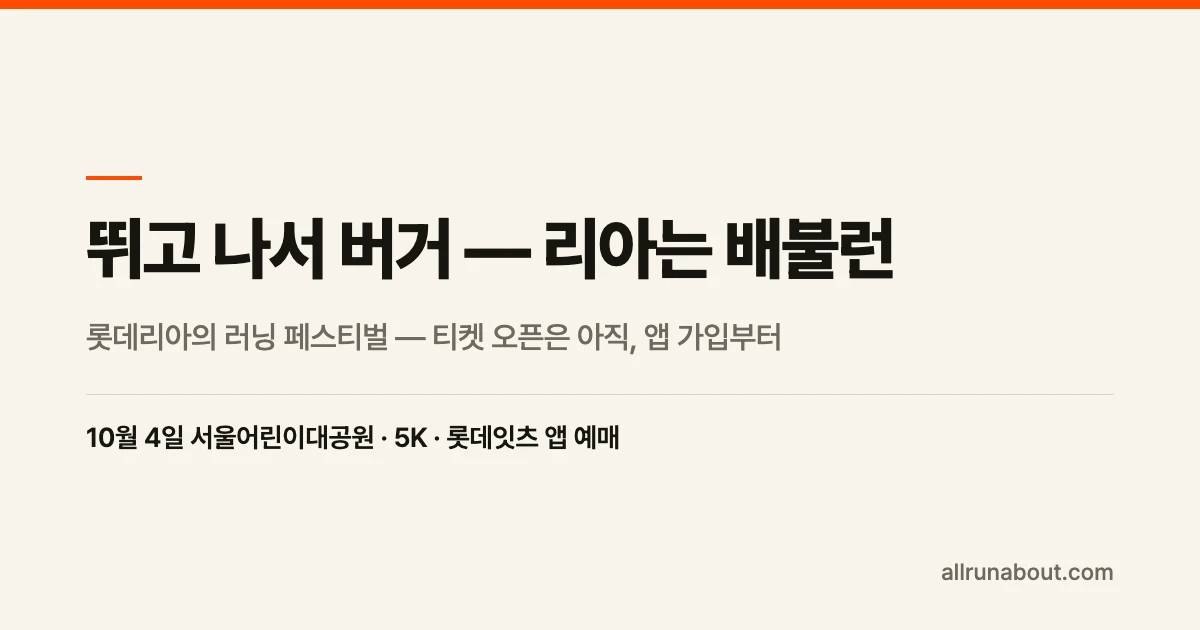
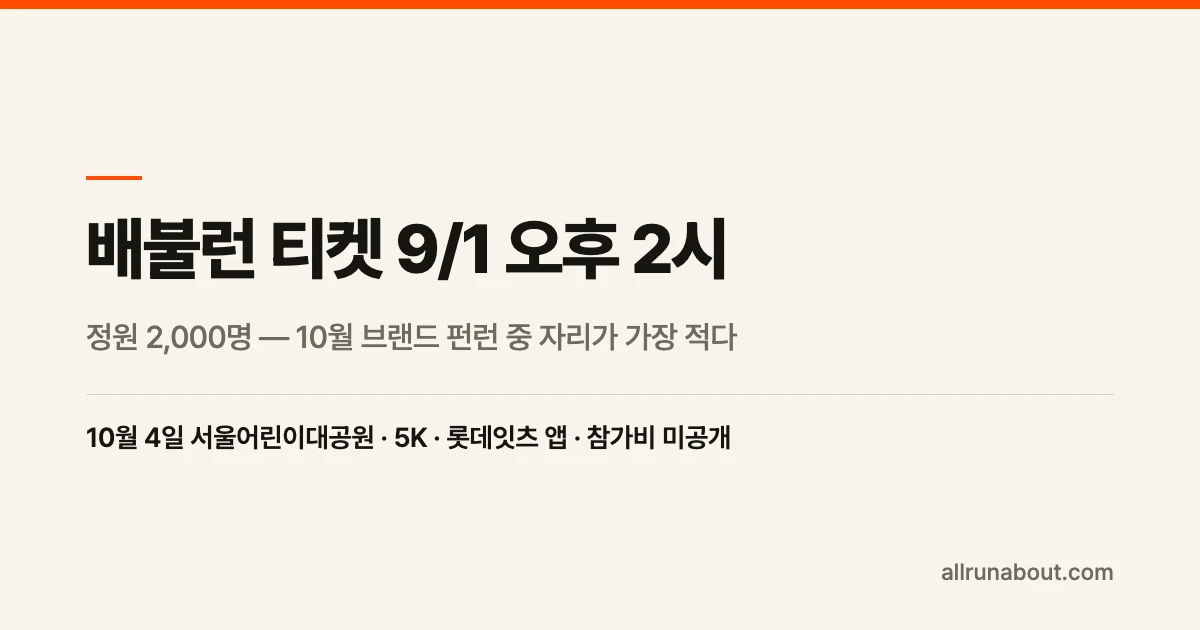
fix(blog): 리아는 배불런 티켓 오픈 확정 반영 — 9/1 14시, 정원 2,000명
@lotteria_kr 8/20 게시물로 8/12 발행 때 "추후 공개"로 남겨뒀던 항목이
확정됐다. 티켓 오픈 9월 1일(화) 오후 2시, 롯데잇츠 앱에서 참가권 구매,
정원 2,000명, 코스는 "햄버거 라인을 따라 달리는 5km 버거 트랙".

각도는 오픈 날짜가 아니라 정원이다. 2,000명은 같은 달 디즈니런 1.5만·
카카오 1만·쿠키런 7천에 견주면 한 자릿수 배로 작다. 예매 경로도 앱
하나뿐이라 9/1 14시 정시 경쟁으로 대비하는 게 안전하다.

다만 선착순/추첨은 공식 표기가 없어 단정하지 않았다 — "참가권을
구매하세요"라는 문구와 추첨 언급 부재에서 끌어낸 추정임을 본문·FAQ·
경고 callout 세 곳에 명시했다. 참가비는 여전히 미공개다.

정합 갱신:
- marathon DB: registrationStart 9/1, 정원 2,000, website 를 티켓 공지
  게시물로 교체. status 는 '접수예정' 유지(오픈 전)
- 10월 축제형 허브: 배불런이 "티켓 오픈 대기"였다 → 디즈니 8/31·배불런
  9/1 이 이틀 연속이라는 구성으로 제목·스트립·요약·표·섹션1 재작성
- 썸네일 2장 재생성

검증: validate 에러 0(경고 15→13, 카카오·쿠키런 website 백필 효과) ·
build 통과 · test 170개 통과 · slug 변경 없음

Changed region(s): [[0.0617, 0.3317, 0.7708, 0.4524], [0.0617, 0.5127, 0.6475, 0.573], [0.4625, 0.6635, 0.6167, 0.7238]]

diff --git a/src/lib/data/blog/posts/2026-08.ts b/src/lib/data/blog/posts/2026-08.ts
@@ -756,13 +756,13 @@ export const posts_2026_08: BlogPost[] = [
   {
     id: 'october-fun-run-races-2026-compare',
     slug: 'october-fun-run-races-2026-compare',
-    title: '10월 축제형 러닝 대회 7개 비교 — 어떤 걸 골라야 하나 | 지금 신청 가능한 건 쿠키런(~9/21), 다음 관문은 디즈니 8/31 오픈',
+    title: '10월 축제형 러닝 대회 7개 비교 — 어떤 걸 골라야 하나 | 디즈니 8/31·배불런 9/1, 관문이 이틀 연속',
     description:
-      '2026년 10월은 브랜드·캐릭터 러닝 대회가 한 달에 일곱 개 몰린 달입니다. 리아는 배불런(10/4)·NB 런유어웨이(10/4)·카카오프렌즈 런(10/10)·서울레이스(10/11)·디즈니런 인천(10/24)·용감한 쿠키RUN(10/25), 그리고 일정 미발표인 스타일런까지. 8월 20일 기준으로 판이 한 번 바뀌었습니다 — 카카오는 접수가 끝나 당첨자 발표 단계로 넘어갔고, 용감한 쿠키RUN이 8월 20일 오후 2시에 열려 9월 21일까지 신청을 받습니다. 다음 관문은 8월 31일 10시 디즈니런 선착순입니다. 날짜·참가비·종목·접수 상태를 한 표로 놓고, 지금 움직일 대회와 기다릴 대회를 갈랐습니다.',
+      '2026년 10월은 브랜드·캐릭터 러닝 대회가 한 달에 일곱 개 몰린 달입니다. 리아는 배불런(10/4)·NB 런유어웨이(10/4)·카카오프렌즈 런(10/10)·서울레이스(10/11)·디즈니런 인천(10/24)·용감한 쿠키RUN(10/25), 그리고 일정 미발표인 스타일런까지. 지금 신청창이 열려 있는 건 용감한 쿠키RUN 하나(~9/21 17시)이고, 다음 관문 둘이 이틀 연속으로 붙어 있습니다 — 디즈니런 8월 31일 10시 선착순 1.5만 명, 리아는 배불런 9월 1일 14시 롯데잇츠 앱 정원 2,000명. 카카오프렌즈 런은 접수를 닫고 당첨자 발표 단계로 넘어갔습니다. 날짜·참가비·종목·접수 상태를 한 표로 놓고, 지금 움직일 대회와 기다릴 대회를 갈랐습니다.',
     thumbnail: '/images/blog/october-fun-run-races-2026-compare.webp',
     author: '산초 에디터',
     publishedAt: '2026-08-12',
-    updatedAt: '2026-08-20',
+    updatedAt: '2026-08-21',
     category: 'news' as const,
     readingTime: 8,
     tags: ['10월 마라톤', '가을 러닝 대회', '펀런', '브랜드 러닝', '카카오프렌즈 런', '디즈니런', '리아는 배불런', '서울레이스', '러닝 대회 비교', '러닝 대회 접수'],
@@ -770,7 +770,7 @@ export const posts_2026_08: BlogPost[] = [
       {
         question: '지금 당장 신청할 수 있는 대회는 뭔가요?',
         answer:
-          '8월 20일 기준으로는 용감한 쿠키RUN 하나입니다. 8월 20일(목) 오후 2시에 접수가 열려 9월 21일(월) 17시까지 받으며, 같은 시각까지는 100% 환불도 가능해 일정이 불확실해도 일단 잡아둘 여지가 있습니다. 카카오프렌즈 런은 8월 17일에 접수가 끝나 당첨자 발표 단계로 넘어갔고(1차 8/20, 잔여 티켓 추가 발표 ~8/30), 디즈니런 인천은 8월 31일(월) 오전 10시에 1.5만 명 선착순으로 본대회 티켓이 열립니다. 나머지는 대기(배불런·스타일런) 또는 별도 경로(런유어웨이 오프라인 패키지) 상태입니다.',
+          '지금 열려 있는 건 용감한 쿠키RUN 하나입니다. 8월 20일(목) 오후 2시에 접수가 열려 9월 21일(월) 17시까지 받으며, 같은 시각까지는 100% 환불도 가능해 일정이 불확실해도 일단 잡아둘 여지가 있습니다. 이어질 관문은 둘입니다 — 디즈니런 인천이 8월 31일(월) 오전 10시에 1.5만 명 선착순으로, 리아는 배불런이 9월 1일(화) 오후 2시에 롯데잇츠 앱에서 열립니다. 배불런은 정원이 2,000명뿐이라 이 중 자리가 가장 적습니다. 카카오프렌즈 런은 8월 17일에 접수가 끝나 당첨자 발표 단계로 넘어갔고(1차 8/20, 잔여 티켓 추가 발표 ~8/30), 스타일런만 여전히 일정 미발표입니다.',
       },
       {
         question: '10월 4일에 두 대회가 겹치는데 어떻게 고르나요?',
@@ -794,13 +794,13 @@ export const posts_2026_08: BlogPost[] = [
       },
     ],
     content: `
-<div class="deadline-strip">⏰ <strong>8/20 기준으로 판이 바뀌었습니다</strong> — 카카오프렌즈 런은 접수가 끝나 <strong>당첨자 발표</strong> 단계(1차 8/20, 잔여 티켓 추가 발표 ~8/30)로 넘어갔고, 용감한 쿠키RUN이 <strong>8월 20일(목) 오후 2시에 열려 9월 21일(월) 17시까지</strong> 신청을 받습니다. 다음 관문은 디즈니런 인천 <strong>8월 31일(월) 10시 선착순</strong>입니다.</div>
+<div class="deadline-strip">⏰ <strong>다음 관문이 이틀 연속입니다</strong> — 디즈니런 인천 <strong>8월 31일(월) 10시</strong>(선착순 1.5만), 리아는 배불런 <strong>9월 1일(화) 14시</strong>(롯데잇츠 앱, <strong>정원 2,000명</strong>). 지금 열려 있는 건 용감한 쿠키RUN 하나(~9/21 17시)이고, 카카오프렌즈 런은 접수를 닫고 발표 단계로 넘어갔습니다.</div>
 
 <div class="tldr">
   <span class="tldr-label">3줄 요약</span>
   <ul>
     <li><strong>2026년 10월은 브랜드·캐릭터 러닝 대회가 일곱 개 몰린 달입니다</strong> — 배불런·런유어웨이(10/4), 카카오프렌즈 런(10/10), 서울레이스(10/11), 디즈니런(10/24), 용감한 쿠키RUN(10/25), 그리고 일정 미발표 스타일런</li>
-    <li><strong>8/20 현재 신청창이 열려 있는 건 쿠키런 하나</strong>(8/20 14시~9/21 17시)이고, 카카오는 접수를 닫고 발표 단계로, 디즈니는 8/31 10시 선착순 오픈을 남겨두고 있습니다. 배불런·스타일런은 티켓 오픈 대기, 런유어웨이는 래플이 끝나 매장 패키지만 남았습니다</li>
+    <li><strong>지금 신청창이 열려 있는 건 쿠키런 하나</strong>(8/20 14시~9/21 17시)이고, 이어서 <strong>디즈니 8/31 10시</strong>·<strong>배불런 9/1 14시</strong>가 이틀 간격으로 열립니다. 카카오는 접수를 닫고 발표 단계로, 스타일런만 일정 미발표, 런유어웨이는 래플이 끝나 매장 패키지만 남았습니다</li>
     <li><strong>참가비 7~8만원이 표준가가 됐고</strong>(카카오·디즈니 10K·런유어웨이 8만, 쿠키런 7만), 일곱 중 기록 지향은 서울레이스 하나뿐인데 <strong>그마저 5월에 접수가 끝났습니다</strong> — 즉 10월에 지금 신청 가능한 기록 대회는 없고, 남은 건 전부 축제형입니다</li>
   </ul>
 </div>
@@ -825,7 +825,7 @@ export const posts_2026_08: BlogPost[] = [
       <td>10/4(일)</td>
       <td>서울어린이대공원<br>5K</td>
       <td>미공개</td>
-      <td>티켓 오픈 대기<br><small>롯데잇츠 앱 예매</small></td>
+      <td><strong>9/1(화) 14시 오픈</strong><br><small>롯데잇츠 앱 · 정원 2,000명</small></td>
     </tr>
     <tr>
       <td><strong><a href="/blog/nb-run-your-way-seoul-10k-2026">NB 런유어웨이</a></strong><br><small>뉴발란스</small></td>
@@ -872,17 +872,18 @@ export const posts_2026_08: BlogPost[] = [
   </tbody>
 </table>
 
-<h2>1. 지금 움직일 것 — 쿠키런은 열렸고(~9/21), 디즈니는 8/31, 카카오는 끝났다</h2>
+<h2>1. 지금 움직일 것 — 쿠키런 열림(~9/21), 디즈니 8/31, 배불런 9/1</h2>
 
 <p><em>(8/20 갱신)</em> 이번 달 셋 중 <strong>하나는 문이 닫혔고 하나는 열렸습니다.</strong></p>
 
 <ul>
   <li><strong><a href="/blog/brave-cookie-run-seoul-2026">용감한 쿠키RUN — 접수 개시(8/20 14시), 마감 9월 21일(월) 17시</a></strong>. 지금 신청창이 열려 있는 유일한 대회입니다. 접수 창이 한 달로 길고 <strong>같은 시각까지 100% 환불</strong>이 가능해, 10월 25일 일정이 확실하지 않아도 일단 확보해두는 선택이 성립합니다. 쿠키런의 첫 오프라인 대회이고 10K 단일·7만원입니다</li>
   <li><strong>디즈니런 인천 — 8월 31일(월) 오전 10시 오픈</strong>. 이쪽은 <strong>선착순 1.5만 명</strong>이라 진짜 광클입니다. 작년 여의도에서 1.5만 명을 모은 대회라 경쟁이 예상되니, 결제 수단과 동반자 정보를 미리 준비해두세요</li>
+  <li><strong><a href="/blog/lotteria-baebulrun-2026">리아는 배불런 — 9월 1일(화) 오후 2시 오픈</a></strong>. 디즈니 다음 날입니다. 예매처가 <strong>롯데잇츠 앱 하나</strong>이고 정원이 <strong>2,000명</strong>뿐이라 이 달 라인업 중 자리가 가장 적습니다. 선착순인지 추첨인지는 공식 표기가 없지만 "참가권을 구매하세요"라는 안내라, 앱 가입·본인인증·결제 수단 등록까지 8월 안에 끝내두는 편이 안전합니다. 참가비는 여전히 미공개</li>
   <li><strong><a href="/blog/kakao-friends-run-2026">카카오프렌즈 런 — 접수 종료, 발표 단계</a></strong>. 8월 17일에 접수가 닫혔고 <strong>1차 당첨자 발표가 8월 20일(목)</strong>입니다. 안내는 카카오톡 채널 개별 통보이고, 잔여 티켓이 생기면 <strong>8월 30일(일)까지 추가 발표</strong>가 있습니다. 최종적으로 안 됐다면 버추얼 런이라는 우회로가 남습니다</li>
 </ul>
 
-<p>세 대회의 접수 방식이 제각각이라는 점이 이번 달의 함정이었습니다 — 카카오는 "기간 내 응모"만 하면 됐고, 디즈니는 "정시 클릭"이 전부이며, 쿠키런은 방식이 공개되지 않았지만 창이 한 달이라 결과적으로 여유가 있습니다.
+<p>접수 방식이 대회마다 제각각이라는 점이 이번 시즌의 함정입니다 — 카카오는 "기간 내 응모"만 하면 됐고, 디즈니와 배불런은 "정시 클릭"이 전부이며, 쿠키런은 방식이 공개되지 않았지만 창이 한 달이라 결과적으로 여유가 있습니다. <strong>8월 31일과 9월 1일이 붙어 있다는 것도 변수</strong>입니다 — 둘 다 노린다면 이틀 연속 정시 대기를 해야 합니다.
 
 <h2>2. 10월 4일 겹침 — 성격이 반대라 오히려 쉽다</h2>
 
@@ -947,7 +948,7 @@ export const posts_2026_08: BlogPost[] = [
   <span class="callout-icon">⚠</span>
   <div class="callout-body">
     <p class="callout-title">확정되지 않은 항목</p>
-    <p>리아는 배불런의 티켓 오픈일·참가비, 스타일런의 2026년 일정 전체는 2026년 8월 12일 기준 미공개입니다. 카카오프렌즈 런도 접수는 열렸지만 환불 규정·코스 상세·기록 계측 여부 등 세부 요강은 아직 공개 자료에서 확인되지 않았습니다. 각 대회 공식 채널에서 최종 확인하시고, 확정되는 대로 이 글을 갱신하겠습니다.</p>
+    <p>리아는 배불런은 8월 20일 공지로 티켓 오픈(9/1 14시)과 정원(2,000명)이 확정됐지만 <strong>참가비는 여전히 미공개</strong>이고, 선착순/추첨 여부도 공식 표기가 없습니다. 스타일런의 2026년 일정 전체도 8월 21일 기준 미발표입니다(제3자 사이트의 "10/18"은 공식 근거가 확인되지 않습니다). 용감한 쿠키RUN 역시 선발 방식이 명시돼 있지 않습니다. 각 대회 공식 채널에서 최종 확인하시고, 확정되는 대로 이 글을 갱신하겠습니다.</p>
   </div>
 </div>
 
@@ -1068,14 +1069,15 @@ export const posts_2026_08: BlogPost[] = [
   {
     id: 'lotteria-baebulrun-2026',
     slug: 'lotteria-baebulrun-2026',
-    title: '뛰고 나서 버거 — 롯데리아 "2026 리아는 배불런" 공개 | 10월 4일 서울어린이대공원 5K, 티켓은 롯데잇츠 앱',
+    title: '리아는 배불런 티켓 9월 1일 오후 2시 오픈 — 정원 2,000명, 롯데잇츠 앱 전용 | 10월 4일 어린이대공원 5K',
     description:
-      '롯데리아가 러닝 페스티벌 "2026 리아는 배불런"을 공식 인스타그램으로 공개했습니다. 10월 4일(일) 서울어린이대공원에서 5km를 달리는 축제형 펀런으로, 슬로건은 "땀 흘린 만큼, 배부를 자격 있다". 티켓 오픈 일정·참가비·프로그램은 추후 공개이고 예매는 롯데잇츠 앱에서 진행됩니다. 8월 말 리아 불고기·리아 새우 구매 시 예매 혜택 예고까지 — 지금 확정된 것과 아닌 것, 같은 날 열리는 뉴발란스 런유어웨이와의 선택 기준을 정리했습니다.',
+      '롯데리아 "2026 리아는 배불런"의 티켓 오픈 일정이 나왔습니다 — 9월 1일(화) 오후 2시, 롯데잇츠 앱에서 참가권을 구매하는 방식입니다. 이번 공지로 함께 확인된 정원은 2,000명으로, 같은 달 카카오프렌즈 런(1만)·디즈니런(1.5만)·용감한 쿠키RUN(7천)과 견주면 자리가 눈에 띄게 적습니다. 코스는 "햄버거 라인을 따라 달리는 5km 버거 트랙", 행사는 10월 4일(일) 서울어린이대공원. 참가비는 아직 미공개입니다. 오픈 전에 해둘 것과 같은 날 뉴발란스 런유어웨이와의 선택 기준을 정리했습니다.',
     thumbnail: '/images/blog/lotteria-baebulrun-2026.webp',
     author: '산초 에디터',
     publishedAt: '2026-08-12',
+    updatedAt: '2026-08-21',
     category: 'news' as const,
-    readingTime: 6,
+    readingTime: 7,
     tags: ['리아는 배불런', '롯데리아 런', '롯데리아 러닝', '서울어린이대공원', '펀런', '브랜드 러닝', '10월 마라톤', '5K 대회', '러닝 대회 접수'],
     event: {
       name: '2026 리아는 배불런',
@@ -1096,12 +1098,22 @@ export const posts_2026_08: BlogPost[] = [
       {
         question: '접수는 언제, 어디서 하나요?',
         answer:
-          '티켓 오픈 일정은 아직 공개되지 않았습니다(8월 12일 기준). 확정된 것은 예매처가 롯데잇츠 앱이라는 점이고, 공식 발표에서 원활한 예매를 위해 미리 회원가입을 해두라고 권장했습니다. 또 8월 말 롯데잇츠에서 리아 불고기·리아 새우 구매 시 티켓 예매 혜택이 제공될 예정이라고 예고돼 있습니다.',
+          '2026년 9월 1일(화) 오후 2시에 롯데잇츠 앱에서 열립니다(8월 20일 공식 공지). 앱에서 "리아는 배불런" 참가권을 구매하는 방식이고, 다른 예매 경로는 안내되지 않았습니다. 오픈 시각에 가입·본인인증·결제 수단 등록을 하면 늦으니 8월 안에 끝내두세요.',
+      },
+      {
+        question: '선착순인가요, 추첨인가요?',
+        answer:
+          '공식적으로 명시되지 않았습니다. 다만 안내 문구가 응모가 아니라 "참가권을 구매하세요"이고 추첨에 대한 언급이 전혀 없어, 정시 구매 경쟁으로 대비하는 편이 안전합니다. 정원이 2,000명으로 같은 달 다른 브랜드 펀런(카카오 1만·디즈니 1.5만·쿠키런 7천)보다 훨씬 적다는 점도 감안해야 합니다.',
+      },
+      {
+        question: '정원 2,000명이면 경쟁이 심한가요?',
+        answer:
+          '올가을 브랜드 펀런 중 가장 작은 규모입니다. 디즈니런 인천이 1.5만 명, 카카오프렌즈 런이 1만 명, 용감한 쿠키RUN이 7천 명인데 배불런은 2,000명입니다. 다만 배불런은 참가비가 아직 공개되지 않아 수요를 가늠하기 어렵고, 5K 단일 종목이라 대상층도 다릅니다. "무조건 몇 분 만에 매진"이라고 예측할 근거는 없지만, 여유 있게 접근할 규모도 아닙니다.',
       },
       {
         question: '참가비와 기념품은요?',
         answer:
-          '아직 공개되지 않았습니다. 참가비·기념품·프로그램 구성·정원 모두 "추후 공개" 상태입니다. 브랜드 펀런 관례(카카오프렌즈 런 8만원 등)를 보면 굿즈·먹거리 포함 패키지 형태가 유력하지만, 이는 추정일 뿐이니 공식 공지를 기다려야 합니다. 공개되면 이 글을 갱신하겠습니다.',
+          '참가비는 8월 21일 기준 여전히 미공개입니다. 기념품·프로그램 구성·기록 측정 여부도 마찬가지입니다. 브랜드 펀런 관례(카카오프렌즈 런 8만원, 용감한 쿠키RUN 7만원, 디즈니런 10K 8만원)를 보면 7~8만원대에 굿즈·먹거리를 포함한 패키지 형태가 유력하지만, 이는 관례에서 끌어온 추정일 뿐 발표된 값이 아닙니다. 공개되면 이 글을 갱신하겠습니다.',
       },
       {
         question: '같은 날 다른 대회와 겹치지 않나요?',
@@ -1110,12 +1122,14 @@ export const posts_2026_08: BlogPost[] = [
       },
     ],
     content: `
+<div class="deadline-strip">🍔 <strong>티켓 오픈 — 9월 1일(화) 오후 2시, 롯데잇츠 앱</strong>. 정원이 <strong>2,000명</strong>이라 10월 브랜드 펀런 중 자리가 가장 적습니다. 앱 회원가입과 결제 수단 등록을 <strong>8월 안에</strong> 끝내두세요.</div>
+
 <div class="tldr">
   <span class="tldr-label">3줄 요약</span>
   <ul>
-    <li><strong>롯데리아가 러닝 페스티벌을 엽니다</strong> — "2026 리아는 배불런", 10월 4일(일) 서울어린이대공원, 5km. 슬로건은 <strong>"땀 흘린 만큼, 배부를 자격 있다"</strong></li>
-    <li><strong>티켓 오픈·참가비·프로그램은 추후 공개.</strong> 확정된 준비 방법은 두 가지 — 예매처인 <strong>롯데잇츠 앱 회원가입</strong>을 미리 해두는 것, 그리고 <strong>8월 말 리아 불고기·리아 새우 구매 시 예매 혜택</strong> 예고를 챙기는 것</li>
-    <li>같은 날(10/4) 여의도에서 <a href="/blog/nb-run-your-way-seoul-10k-2026">뉴발란스 런유어웨이 10K</a>가 열립니다 — 기록이냐 축제냐로 갈라 고르면 됩니다</li>
+    <li><strong>티켓은 9월 1일(화) 오후 2시에 롯데잇츠 앱에서 열립니다</strong>(8/20 공식 공지). "참가권을 구매하세요"라는 안내이고 추첨 언급이 없어 <strong>정시 구매 경쟁</strong>으로 보는 편이 안전합니다</li>
+    <li><strong>정원 2,000명</strong> — 이번 공지에서 처음 나온 숫자입니다. 같은 달 <a href="/blog/kakao-friends-run-2026">카카오프렌즈 런</a> 1만, <a href="/marathon/disney-run-incheon-2026">디즈니런</a> 1.5만, <a href="/blog/brave-cookie-run-seoul-2026">용감한 쿠키RUN</a> 7천과 견주면 <strong>한 자릿수 배로 작습니다</strong></li>
+    <li>여전히 <strong>참가비는 미공개</strong>입니다. 코스는 "햄버거 라인을 따라 달리는 5km 버거 트랙", 행사는 10월 4일(일) 서울어린이대공원 — 같은 날 여의도에서 <a href="/blog/nb-run-your-way-seoul-10k-2026">뉴발란스 런유어웨이 10K</a>가 겹칩니다</li>
   </ul>
 </div>
 
@@ -1135,24 +1149,46 @@ export const posts_2026_08: BlogPost[] = [
   </thead>
   <tbody>
     <tr><td>대회명</td><td>2026 리아는 배불런 (RUNNING FESTIVAL)</td><td>확정</td></tr>
+    <tr><td><strong>티켓 오픈</strong></td><td><strong>2026년 9월 1일(화) 오후 2시</strong></td><td><strong>확정 (8/20 공지)</strong></td></tr>
+    <tr><td><strong>정원</strong></td><td><strong>2,000명</strong></td><td><strong>확정 (8/20 공지)</strong></td></tr>
     <tr><td>일시</td><td>2026년 10월 4일(일)</td><td>확정</td></tr>
     <tr><td>장소</td><td>서울어린이대공원</td><td>확정</td></tr>
-    <tr><td>종목</td><td>5km</td><td>확정</td></tr>
-    <tr><td>예매처</td><td>롯데잇츠 앱</td><td>확정</td></tr>
-    <tr><td>티켓 오픈 일정</td><td>추후 공개</td><td><strong>미공개</strong></td></tr>
-    <tr><td>참가비·기념품·프로그램·정원</td><td>추후 공개</td><td><strong>미공개</strong></td></tr>
+    <tr><td>종목·코스</td><td>5km — "햄버거 라인을 따라 달리는 버거 트랙"</td><td>확정</td></tr>
+    <tr><td>예매처</td><td>롯데잇츠 앱 (참가권 구매)</td><td>확정</td></tr>
+    <tr><td>참가비</td><td>미공개</td><td><strong>미공개</strong></td></tr>
+    <tr><td>기념품·프로그램·기록 측정</td><td>미공개</td><td><strong>미공개</strong></td></tr>
+    <tr><td>선착순/추첨 여부</td><td>공식 표기 없음 — "참가권을 구매하세요"</td><td><strong>미명시</strong></td></tr>
     <tr><td>예매 혜택</td><td>8월 말 롯데잇츠 내 리아 불고기·리아 새우 구매 시 제공 예정</td><td>예고</td></tr>
   </tbody>
 </table>
 
+<h2>이번 공지의 진짜 뉴스는 날짜가 아니라 2,000이다</h2>
+
+<p>티켓 오픈일보다 눈여겨볼 숫자는 정원입니다. 공식 문구는 "버거 취향 하나로 모인 <strong>2,000명</strong>의 버거메이트와 즐기는 러닝"입니다. 올가을 브랜드 펀런 중 이 규모는 확연히 작습니다.</p>
+
+<table>
+  <thead>
+    <tr><th>대회</th><th>정원</th><th>선발 방식</th></tr>
+  </thead>
+  <tbody>
+    <tr><td><strong>리아는 배불런</strong> (10/4)</td><td><strong>2,000명</strong></td><td>미명시 (참가권 구매)</td></tr>
+    <tr><td><a href="/blog/brave-cookie-run-seoul-2026">용감한 쿠키RUN</a> (10/25)</td><td>7,000명</td><td>미명시 · 접수창 한 달</td></tr>
+    <tr><td><a href="/blog/kakao-friends-run-2026">카카오프렌즈 런</a> (10/10)</td><td>10,000명</td><td>추첨 (종료)</td></tr>
+    <tr><td><a href="/marathon/disney-run-incheon-2026">디즈니런 인천</a> (10/24)</td><td>15,000명</td><td>선착순</td></tr>
+  </tbody>
+</table>
+
+<p>여기에 예매 경로가 <strong>롯데잇츠 앱 하나</strong>이고, 안내 문구가 응모가 아니라 "참가권을 <strong>구매</strong>하세요"입니다. 추첨이라는 말은 어디에도 없습니다. 공식이 선착순이라고 못 박은 것은 아니므로 단정하지는 않겠습니다만, 준비는 <strong>9월 1일 오후 2시에 앱에서 결제까지 끝내는 시나리오</strong>로 해두는 편이 안전합니다. 로그인·본인인증·결제 수단 등록을 그 자리에서 하면 2,000석 경쟁에서는 늦습니다.</p>
+
 <p>이 대회는 <a href="/marathon/lotteria-baebulrun-2026">마라톤 캘린더의 리아는 배불런 페이지</a>에도 등록해뒀습니다.</p>
 
-<h2>지금 해둘 준비 — 발표 전 체크리스트</h2>
+<h2>9월 1일 전에 끝내둘 것</h2>
 
 <ol>
-  <li><strong>롯데잇츠 앱 회원가입</strong> — 공식 발표가 직접 권장한 유일한 사전 준비입니다. 티켓 오픈이 뜨고 나서 가입·인증에 시간을 쓰면 브랜드 펀런 특유의 초반 매진 경쟁에서 밀립니다</li>
-  <li><strong>8월 말 메뉴 구매 혜택 주시</strong> — 리아 불고기·리아 새우 구매 시 "티켓 예매 간 특별한 혜택"이 예고돼 있습니다. 우선 예매권인지 할인인지는 미공개지만, 어차피 먹을 계획이면 시점을 8월 말로 맞추는 게 유리할 수 있습니다</li>
-  <li><strong>버거메이트 섭외</strong> — 발표문이 명시한 콘셉트가 "버거메이트와 완성하는 5km"입니다. 혼자보다 동반 참가 구성이 유력하니 같이 뛸 사람을 미리 정해두세요</li>
+  <li><strong>롯데잇츠 앱 가입·본인인증·결제 수단 등록까지</strong> — 공식 발표가 직접 권장한 사전 준비이고, 이번엔 정원 2,000명이라 무게가 더 실립니다. 가입만 해두고 결제 수단을 안 넣어두면 결국 오픈 시각에 카드 번호를 치게 됩니다</li>
+  <li><strong>8월 말 메뉴 구매 혜택 확인</strong> — 리아 불고기·리아 새우 구매 시 "티켓 예매 간 특별한 혜택"이 예고돼 있습니다. 우선 예매권인지 할인인지는 8월 21일 기준 여전히 미공개지만, 티켓 오픈이 9월 1일이라 <strong>혜택을 챙기려면 8월 안에</strong> 움직여야 하는 구조입니다</li>
+  <li><strong>버거메이트 섭외</strong> — 발표문이 명시한 콘셉트가 "버거메이트와 완성하는 5km"입니다. 동반 참가 구성이 유력하니 같이 뛸 사람을 미리 정하고, 티켓을 몇 장 끊을지도 오픈 전에 합의해두세요</li>
+  <li><strong>참가비 미공개를 감안한 예산</strong> — 브랜드 펀런 표준가가 7~8만원대(카카오 8만·쿠키런 7만·디즈니 10K 8만)라 그 언저리를 잡아두면 오픈 당일 망설임이 줄어듭니다. 다만 이건 관례에서 끌어온 추정이지 발표된 값이 아닙니다</li>
 </ol>
 
 <h2>10월 첫 주말, 선택지가 둘 — 배불런 vs 런유어웨이</h2>
@@ -1166,7 +1202,8 @@ export const posts_2026_08: BlogPost[] = [
     <tr><td>장소</td><td>서울어린이대공원</td><td>여의도공원</td></tr>
     <tr><td>종목</td><td>5K (축제형)</td><td>10K (출발 그룹제)</td></tr>
     <tr><td>성격</td><td>먹고 즐기는 펀런</td><td>기록·러닝 문화 중심</td></tr>
-    <tr><td>참가 경로</td><td>티켓 오픈 대기 (롯데잇츠 앱)</td><td>래플 종료 — 오프라인 패키지(8/20~21)만 잔여</td></tr>
+    <tr><td>정원</td><td><strong>2,000명</strong></td><td>미공개</td></tr>
+    <tr><td>참가 경로</td><td><strong>9/1(화) 14시 롯데잇츠 앱 오픈</strong></td><td>래플 종료 — 매장 패키지만 잔여</td></tr>
   </tbody>
 </table>
 
@@ -1185,11 +1222,11 @@ export const posts_2026_08: BlogPost[] = [
   <span class="callout-icon">⚠</span>
   <div class="callout-body">
     <p class="callout-title">아직 확정되지 않은 것들</p>
-    <p>티켓 오픈 일시, 참가비, 정원, 기념품·프로그램 구성, 기록 측정 여부, 그리고 8월 말 메뉴 구매 혜택의 구체 내용은 2026년 8월 12일 기준 전부 미공개입니다. 롯데리아가 러닝 대회를 여는 것이 처음인지 여부도 공식 표기가 없어 단정하지 않습니다. 티켓 오픈이 공지되면 이 글을 갱신하겠습니다.</p>
+    <p>8월 20일 공지로 티켓 오픈 일시(9/1 14시)와 정원(2,000명)은 확정됐지만, <strong>참가비·기념품·프로그램 구성·기록 측정 여부는 2026년 8월 21일 기준 여전히 미공개</strong>입니다. 선착순인지 추첨인지도 공식 표기가 없습니다 — 본문의 "정시 구매 경쟁" 판단은 예매 문구와 추첨 언급 부재에서 끌어낸 추정이지 발표된 방식이 아닙니다. 8월 말 메뉴 구매 혜택의 구체 내용, 롯데리아가 러닝 대회를 여는 것이 처음인지 여부도 공식 확인이 없어 단정하지 않습니다. 참가비가 공개되면 이 글을 다시 갱신하겠습니다.</p>
   </div>
 </div>
 
-<p><small>출처: 롯데리아 공식 인스타그램(@lotteria_kr) 2026 리아는 배불런 발표 게시물, 2026-08-12 확인 기준. 미공개 항목은 롯데잇츠 앱·공식 채널 공지에서 확인하세요.</small></p>
+<p><small>출처: 롯데리아 공식 인스타그램(@lotteria_kr) — 2026-08-11 대회 발표 게시물 및 <strong>2026-08-20 티켓 오픈 공지 게시물</strong>(티켓 오픈 9/1 14시·정원 2,000명·버거 트랙·롯데잇츠 앱 참가권 구매), 2026-08-21 확인 기준. 비교표의 타 대회 정원은 각 대회 공식 발표 기준입니다. 미공개 항목은 롯데잇츠 앱·공식 채널 공지에서 확인하세요.</small></p>
 `,
   },
   {

diff --git a/scripts/thumbnail/copy.ts b/scripts/thumbnail/copy.ts
@@ -52,12 +52,12 @@ export const OVERRIDES: Record<string, Partial<ThumbCopy>> = {
     subtitle: '도쿄·오사카는 8/28 마감에 추첨 — 교토는 9/30까지 선착순',
     data: '해외 쿼터 3,000명 · 35,000엔 · 마감 9/30 17시(일본시간)',
   },
-  // 출처: posts/2026-08.ts 비교표 — 7개 대회 날짜·참가비는 마라톤 캘린더 DB + 각 대회 공식 발표
-  // (2026-08-20 갱신). 쿠키런 8/20 14시 개시·9/21 17시 마감, 디즈니 8/31 10시 오픈이 현재 행동 트리거.
+  // 출처: posts/2026-08.ts 비교표 — 7개 대회 날짜·정원·참가비는 마라톤 캘린더 DB + 각 대회 공식 발표
+  // (2026-08-21 갱신). 디즈니 8/31 10시·배불런 9/1 14시(@lotteria_kr 8/20 공지, 정원 2,000명)가 다음 관문.
   'october-fun-run-races-2026-compare': {
     title: '10월 축제형 러닝 대회 7개',
-    subtitle: '지금 열려 있는 건 쿠키런 하나 — 다음 관문은 디즈니 8/31 10시',
-    data: '참가비 8만원이 표준가 · 지금 신청 가능한 기록 대회는 0개',
+    subtitle: '관문이 이틀 연속 — 디즈니 8/31 10시, 배불런 9/1 14시',
+    data: '지금 열린 건 쿠키런 하나(~9/21) · 신청 가능한 기록 대회는 0개',
   },
   // 출처: posts/2026-08.ts 출시 정보 표 — 뉴발란스 인스타 공지(2026-08-12 확인, 출시일·가격·체험)
   // + 공식 발표 스펙(218g). 패키지 동가 구조는 런유어웨이 공식 접수 안내 기준.
@@ -69,9 +69,9 @@ export const OVERRIDES: Record<string, Partial<ThumbCopy>> = {
   // 출처: posts/2026-08.ts 개요 표 — 롯데리아 공식 인스타그램(@lotteria_kr) 발표 게시물,
   // 2026-08-12 확인. 10/4 서울어린이대공원 5K, 티켓 오픈·참가비 미공개(예매처 롯데잇츠 앱만 확정).
   'lotteria-baebulrun-2026': {
-    title: '뛰고 나서 버거 — 리아는 배불런',
-    subtitle: '롯데리아의 러닝 페스티벌 — 티켓 오픈은 아직, 앱 가입부터',
-    data: '10월 4일 서울어린이대공원 · 5K · 롯데잇츠 앱 예매',
+    title: '배불런 티켓 9/1 오후 2시',
+    subtitle: '정원 2,000명 — 10월 브랜드 펀런 중 자리가 가장 적다',
+    data: '10월 4일 서울어린이대공원 · 5K · 롯데잇츠 앱 · 참가비 미공개',
   },
   // 출처: posts/2026-08.ts 본문 개요 표 — 공식 접수 사이트(kw-marathon.com 라운드랩 RUN),
   // 2026-08-12 확인. 11/8 춘천, 하프·10K·5K, 5,000명 선착순, 완주 기념품 라운드랩 제품 4종.

diff --git a/src/lib/data/marathon/october.ts b/src/lib/data/marathon/october.ts
@@ -35,10 +35,14 @@ export const octoberEvents: MarathonEvent[] = [
     distances: ['5K'],
     status: '접수예정',
     isMajor: false,
-    website: 'https://www.instagram.com/p/Db2ivlZAaS1/',
+    website: 'https://www.instagram.com/p/DcQrqwOAcMu/',
+    registrationStart: '2026-09-01',
+    lastVerified: '2026-08-21',
     description:
-      '롯데리아가 여는 러닝 페스티벌로, 슬로건은 "땀 흘린 만큼, 배부를 자격 있다"입니다. 종목은 5km 하나이며 버거메이트와 함께 뛰고 먹는 축제형 펀런 콘셉트입니다. 티켓 오픈 일정과 프로그램 상세는 추후 공개 예정이고, 예매는 롯데잇츠 앱에서 진행되므로 미리 회원가입을 해두는 것이 좋습니다. 8월 말 롯데잇츠에서 리아 불고기·리아 새우 구매 시 티켓 예매 혜택이 제공될 예정입니다. 참가비·정원·기록 측정 여부는 미공개입니다.',
-    lastVerified: '2026-08-12',
+      '롯데리아가 여는 러닝 페스티벌로, 슬로건은 "땀 흘린 만큼, 배부를 자격 있다"입니다. 티켓은 9월 1일(화) 오후 2시에 롯데잇츠 앱에서 참가권 형태로 열리며, 정원은 2,000명입니다. 종목은 5km 하나로 공식 안내는 "햄버거 라인을 따라 달리는 5km 버거 트랙"이라고 소개합니다. 버거메이트와 함께 뛰고 먹는 축제형 펀런 콘셉트라 기록 경쟁 대회가 아닙니다. 참가비와 프로그램 세부는 8월 21일 기준 여전히 미공개이며, 예매가 앱 전용이므로 오픈 전 회원가입을 마쳐두는 편이 안전합니다.',
+    raceInfo: {
+      expectedParticipants: 2000,
+    },
   },
   {
     id: 'siheung-half-marathon-2026',
